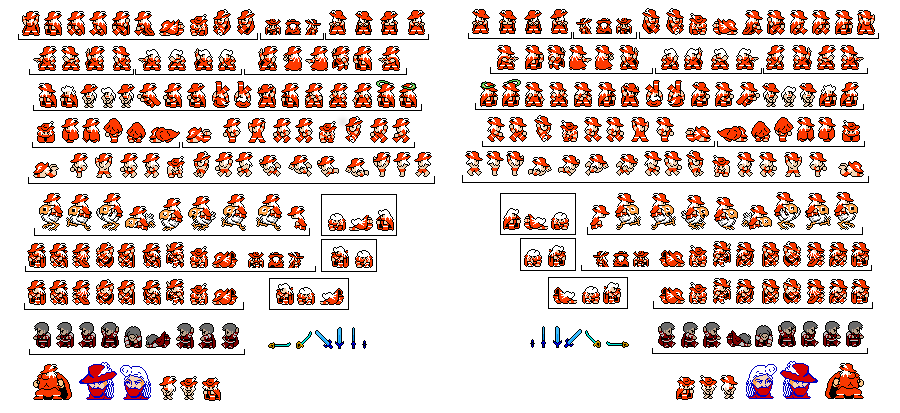
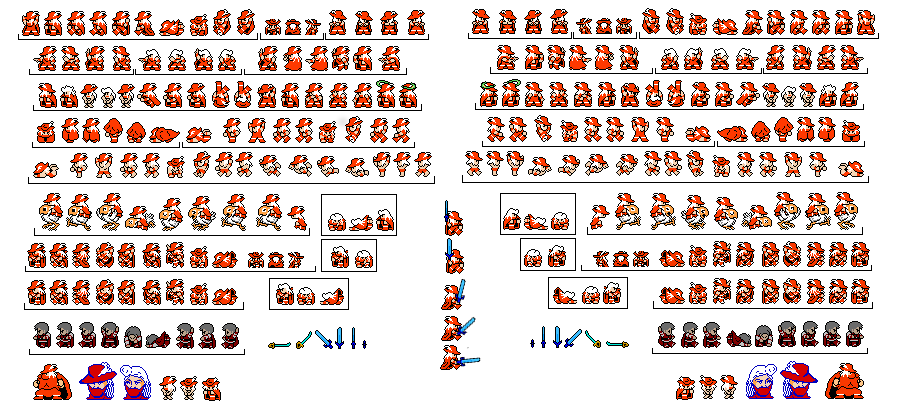
aderir otras an imaciones

Changed region(s): [[0.4667, 0.4939, 0.5289, 0.9007]]

diff --git a/plataform.py b/plataform.py
@@ -49,12 +49,60 @@ character.blit(spritesheet,(-666,-8))
 character = pygame.transform.scale(character, (18*2,27*2))
 jumping = character
 
+character = Surface((18,24),pygame.SRCALPHA)
+character.blit(spritesheet,(-190,-12))
+character = pygame.transform.scale(character, (18*2,24*2))
+getdown = character
+
+character = Surface((20,25),pygame.SRCALPHA)
+character.blit(spritesheet,(-162,-83))
+character = pygame.transform.scale(character, (20*2,25*2))
+hands = character
+
+character = Surface((16,18),pygame.SRCALPHA)
+character.blit(spritesheet,(-296,-331))
+character = pygame.transform.scale(character, (16*2,18*2))
+sword = character
+
+character = Surface((18,26),pygame.SRCALPHA)
+character.blit(spritesheet,(-767,-9))
+character = pygame.transform.scale(character, (18*2,26*2))
+swordmove1 = character
+
+character = Surface((19,26),pygame.SRCALPHA)
+character.blit(spritesheet,(-743,-9))
+character = pygame.transform.scale(character, (19*2,26*2))
+swordmove2 = character
+
+character = Surface((5,9),pygame.SRCALPHA)
+character.blit(spritesheet,(-530,-339))
+character = pygame.transform.scale(character, (5*2,9*2))
+sword1 = character
+
+character = Surface((5,22),pygame.SRCALPHA)
+character.blit(spritesheet,(-541,-326))
+character = pygame.transform.scale(character, (5*2,22*2))
+sword2 = character
+
+character = Surface((9,22),pygame.SRCALPHA)
+character.blit(spritesheet,(-553,-326))
+character = pygame.transform.scale(character, (9*2,22*2))
+sword3 = character
+
+character = Surface((18,22),pygame.SRCALPHA)
+character.blit(spritesheet,(-564,-326))
+character = pygame.transform.scale(character, (18*2,22*2))
+sword4 = character
+
+
  
 pygame.mixer.init()
 sound_jump=pygame.mixer.Sound('media/sounds/jump.wav')
 pygame.mixer.music.load('media/sounds/soft.flac')
 pygame.mixer.music.play()
 pygame.mixer.music.set_volume(0.3)
+
+
 
 
 
@@ -68,16 +116,18 @@ def main():
     pygame.display.set_caption("Use arrows to move!")
     timer = pygame.time.Clock()
     A_count=0
+    atack_counter=0
 
-    up = down = left = right   = casting = False
+    up = down = left = right  =atack = casting = False
     #bg= Surface((32,32))
     #bg.convert()
     #bg.fill(Color("#000000"))
     bg= pygame.image.load("media/graphics/bg.png").convert_alpha()
     bg= pygame.transform.scale(bg,DISPLAY )
     entities = pygame.sprite.Group()
-    player = Player(16*2, 16*2)
+    player = Player(16*2, 16*2+690)
     platforms = []
+    sw= Sword(16,16)
 
     x = y = 0
     level = [
@@ -147,6 +197,7 @@ def main():
     total_level_height = len(level)*16*2
     camera = Camera(complex_camera, total_level_width, total_level_height)
     entities.add(player)
+    entities.add(sw)
 
     while 1:
         timer.tick(60)
@@ -165,6 +216,8 @@ def main():
                 right = True
             if e.type == KEYDOWN and e.key == K_z:
                 casting = True
+            if e.type == KEYDOWN and e.key == K_x:
+                atack = True
 
             if e.type == KEYUP and e.key == K_UP:
                 up = False
@@ -176,6 +229,9 @@ def main():
                 left = False
             if e.type == KEYUP and e.key == K_z:
                 casting = False
+            if atack_counter>10:
+                atack = False
+                atack_counter=0
 
             if not pygame.mixer.music.get_busy():
                 pygame.mixer.music.rewind()
@@ -190,12 +246,15 @@ def main():
         #soft_theme.play()
         camera.update(player)
 
+
         # update player, draw everything else
-        player.update(up, down, left, right, casting, platforms)
+        player.update(up, down, left, right, casting,atack, platforms)
+        sw.update(atack,right,left)
         for e in entities:
             screen.blit(e.image, camera.apply(e))
 
         pygame.display.update()
+        atack_counter+=1
 
 class Camera(object):
     def __init__(self, camera_func, width, height):
@@ -228,6 +287,42 @@ class Entity(pygame.sprite.Sprite):
     def __init__(self):
         pygame.sprite.Sprite.__init__(self)
 
+class Sword(Entity):
+    def __init__(self, x, y):
+        Entity.__init__(self)
+        self.faceR = True
+        self.image = sword1
+        self.counter= 0
+        self.rect = Rect(x, y, 32*2, 32*2)
+
+    def update(self,atack,rigth,left):
+        
+
+        if rigth:
+            self.faceR=True
+
+        if left: 
+            self.faceR=True
+
+        if atack:
+            if self.counter == 10:
+                self.updatecharacter(sword1)
+            elif self.counter == 18:
+                self.updatecharacter(sword2)
+            elif self.counter == 24:
+                self.updatecharacter(sword3)
+       
+            
+            self.counter = 0
+        self.counter = self.counter + 1
+
+    def updatecharacter(self,surf):
+        if not self.faceR : surf = pygame.transform.flip(surf,True,False)
+        self.image= surf
+        self.image = pygame.transform.scale(self.image,(26*2 ,32*2) )
+
+
+
 class Player(Entity):
     def __init__(self, x, y):
         Entity.__init__(self)
@@ -237,6 +332,8 @@ class Player(Entity):
         self.faceR=True
         self.counter=0
         self.onAir= True
+        self.down=False
+        self.atack=False
 
         #self.image = Surface((32,32))
         #self.image.fill(Color("#0000FF"))
@@ -246,7 +343,7 @@ class Player(Entity):
         self.image = pygame.transform.scale(self.image,(26*2 ,32*2) )
         self.rect = Rect(x, y, 32*2, 32*2)
 
-    def update(self, up, down, left, right, casting, platforms):
+    def update(self, up, down, left, right, casting, atack,platforms):
         if up:
             # only jump if on the ground
 
@@ -254,11 +351,12 @@ class Player(Entity):
                 self.yvel -= 10
                 sound_jump.play()
         if down:
-            pass
+            self.down=True
         if casting:
             
             if self.onGround: self.power()
-            
+        if atack:
+            self.atack=True   
         if left:
             self.faceR=False
             self.xvel = -8
@@ -274,6 +372,10 @@ class Player(Entity):
             self.xvel = 0
         if self.yvel < 0 or  self.yvel > 1.2 :
             self.onAir = True
+        if not down :
+            self.down=False
+        if not atack:
+            self.atack=False
         # increment in x direction
         self.rect.left += self.xvel
         # do x-axis collisions
@@ -315,13 +417,23 @@ class Player(Entity):
 
     def animate(self):
 
-        if self.xvel > 0 or self.xvel < 0:
+        if self.atack and not self.onAir:
+            swordAtack=(swordmove1,swordmove2,swordmove2)
+            self.animateloop(swordAtack)
+
+        elif self.xvel > 0 or self.xvel < 0:
             #self.updatecharacter(walkR1)
             walk=(walkR1, walkR2, walkR4)
             self.animateloop(walk)
             #if not self.onGround : self.updatecharacter(jumping)
             if  self.onAir : self.updatecharacter(jumping)
 
+        
+
+           
+        elif self.down==True :
+            self.updatecharacter(getdown)
+            if  self.onAir : self.updatecharacter(jumping)
         else :
             self.updatecharacter(standR)
             if  self.onAir : self.updatecharacter(jumping)
@@ -385,7 +497,7 @@ class nones(Entity):
 class avisos(Entity):
     def __init__(self, x, y, A_count):
         Entity.__init__(self)
-        self.image = Surface((1, 1))
+        self.image = Surface((0,0))
         self.image =  pygame.image.load("media/graphics/aviso"+str(A_count)+".png").convert_alpha()
         self.image = pygame.transform.scale(self.image,(110 ,90) )
         self.rect = Rect(x, y, 1, 1)
